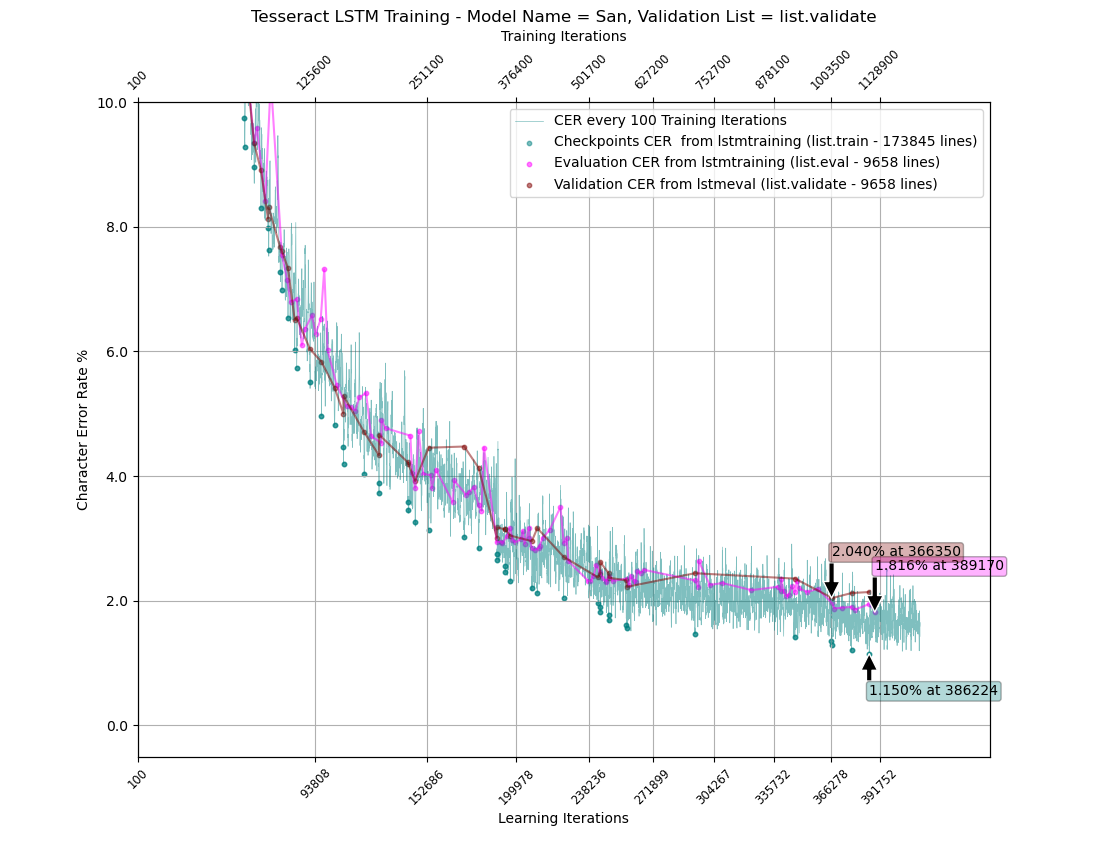
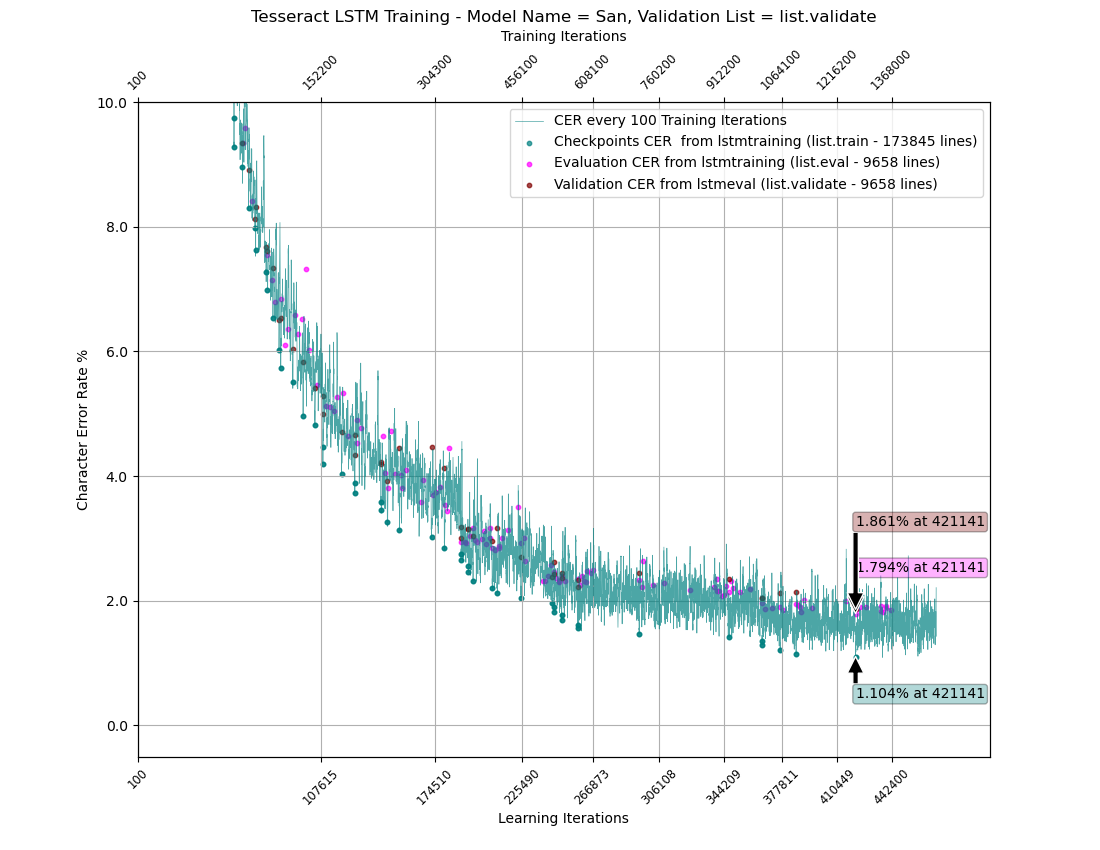
Update README and plot image

diff --git a/README.md b/README.md
@@ -1,11 +1,10 @@
 # tesstrain-Sanskrit-IAST
 Tesseract Traineddata for Sanskrit in Devanagari script and IAST (written in English alphabet with diacritics)
 
-## Traineddata files - Fast Integer Models (Model_CER%_LearningIteration_Training)iteration)
+## Traineddata files - Fast Integer Models (Model_CER%_LearningIteration_Training_iteration)
 
 - [20201017 - Replace Layer on Power8](tessdata_fast/Sanskrit-1017.traineddata)
 - [20201211 - Plus Minus on Power8 - Sanskrit_0.141_286442_2117300](tessdata_fast/Sanskrit_0.141_286442_2117300.traineddata)
-- [20201211 - From Scratch on AArch64 - San_1.15_386224_1103200](tessdata_fast/San_1.15_386224_1103200.traineddata)
 - [20201212 - From Scratch on AArch64 - San_1.104_421141_1266900](tessdata_fast/San_1.104_421141_1266900.traineddata)
 
 
